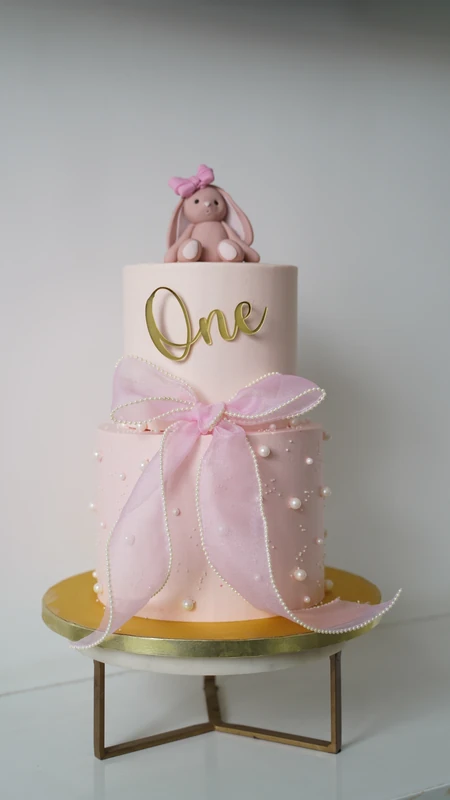
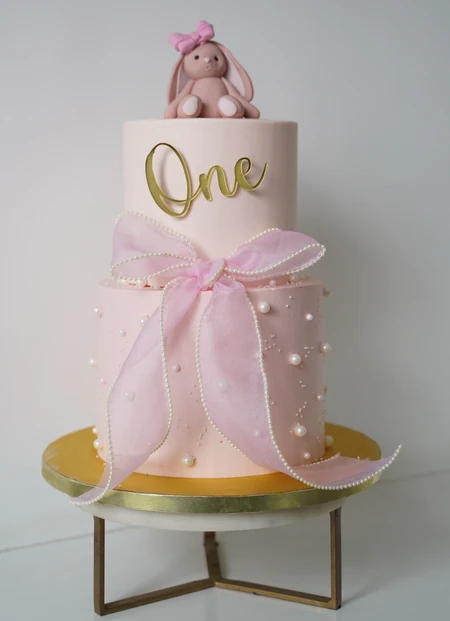
fixed <!-- Image Container - fixed height, cover width, centered --> from align top.

diff --git a/src/app/mo-made.component.html b/src/app/mo-made.component.html
@@ -1088,9 +1088,9 @@
           </svg>
         </button>
         
-        <!-- Image Container - fixed height, cover width, align top -->
+        <!-- Image Container - fixed height, cover width, centered -->
         <div class="relative w-full h-[50vh] overflow-hidden bg-gray-100">
-          <img [src]="zoomedProduct()?.image" [alt]="zoomedProduct()?.name" class="w-full h-full object-cover object-top"/>
+          <img [src]="zoomedProduct()?.image" [alt]="zoomedProduct()?.name" class="w-full h-full object-cover object-center"/>
           <!-- Share button - bottom right of image -->
           <button (click)="shareProduct()" class="absolute bottom-3 right-3 z-10 w-10 h-10 bg-black/40 hover:bg-black/60 backdrop-blur-sm rounded-full flex items-center justify-center text-white transition-colors">
             <svg class="w-5 h-5" fill="none" stroke="currentColor" stroke-width="2" viewBox="0 0 24 24">
